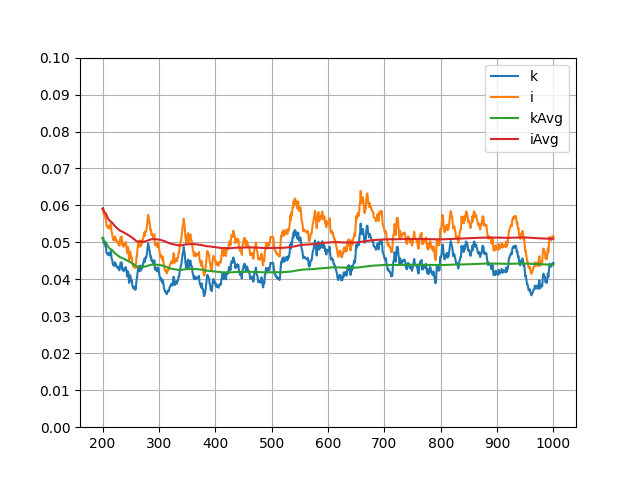
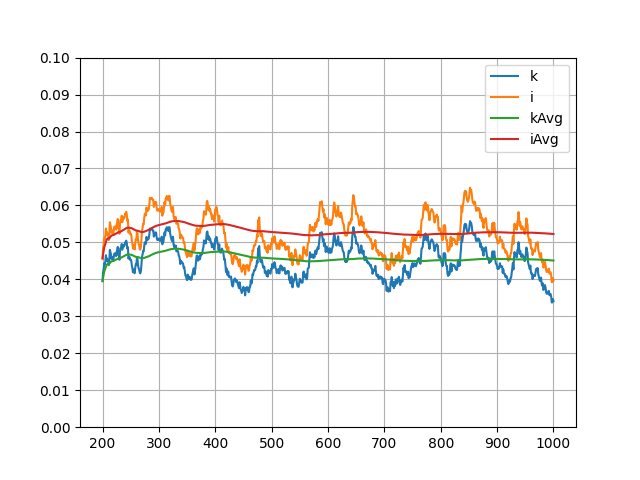
backup

Changed region(s): [[0.1562, 0.375, 0.875, 0.625]]

diff --git a/ffforcing-acc.cpp b/ffforcing-acc.cpp
@@ -57,7 +57,7 @@ int                 TAVG_NSTEP = 0;
 int                 STATIC_NSTEP = 0;
 
 const static double LOW_PASS = 2.;
-const static double FORCING_EFK = 1e-2;
+const static double FORCING_EFK = 1.5e-2;
 
 random_device RD;
 default_random_engine GEN(RD());
@@ -1029,8 +1029,8 @@ int main() {
             output_field(ISTEP/int(1./DT));
             printf("\n");
         }
-        if (ISTEP >= int(200./DT)) {
-            double NTURBAVG = ISTEP - int(200./DT) + 1;
+        if (ISTEP >= int(STATIC_START/DT)) {
+            double NTURBAVG = ISTEP - int(STATIC_START/DT) + 1;
             TURB_K_AVG = (1. - 1./NTURBAVG)*TURB_K_AVG + (1./NTURBAVG)*TURB_K;
             TURB_I_AVG = (1. - 1./NTURBAVG)*TURB_I_AVG + (1./NTURBAVG)*TURB_I;
             if (ISTEP%int(1./DT) == 0) {

diff --git a/eps-kiavg.py b/eps-kiavg.py
@@ -1,0 +1,10 @@
+import pandas as pd
+import matplotlib.pyplot as plt
+
+d = pd.read_csv('data/epsilon-statistics.csv')
+plt.plot(d['epsilon'], d['kAvg'], '-gD', label='kAvg')
+plt.plot(d['epsilon'], d['iAvg'], '-ro', label='iAvg')
+plt.legend()
+plt.grid(True)
+plt.savefig("epsilon-statistics.png")
+

diff --git a/show-statistics.py b/show-statistics.py
@@ -12,4 +12,4 @@ plt.grid(True)
 plt.ylim([0, 0.1])
 plt.yticks(np.arange(0, 0.11, 0.1/10))
 plt.legend()
-plt.show()
+plt.savefig("ffforcing-statistics-feps=1.5e-2.png")
